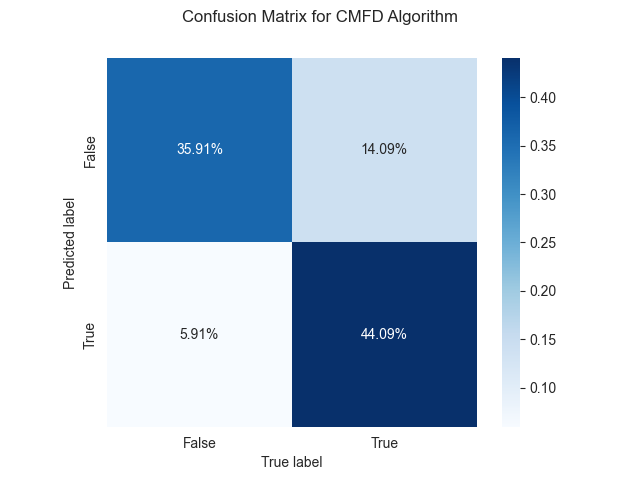
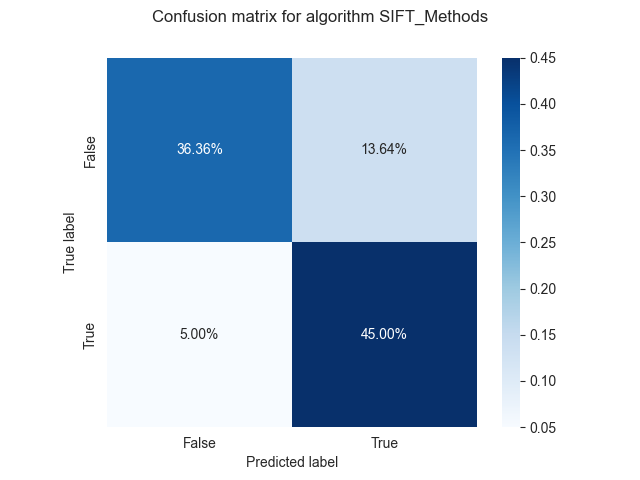
Updated parameters and evaluation report

diff --git a/AlgoTest.py b/AlgoTest.py
@@ -1,15 +1,18 @@
 import argparse
 import importlib
+import warnings
 
 import matplotlib.pyplot as plt
 import numpy as np
 import seaborn as sns
+from sklearn.metrics import classification_report
 from torch.utils.data import DataLoader
 from tqdm import tqdm
 
 from Dataset import MICC_F220
 
 sns.set_style("whitegrid")
+warnings.filterwarnings("ignore")
 
 
 def load_algorithm():
@@ -64,22 +67,28 @@ def plot_confusion_matrix(cm, labels_name, title):
         square=True
     )
     plt.suptitle(title)
-    plt.xlabel('True label')
-    plt.ylabel('Predicted label')
+    plt.ylabel('True label')
+    plt.xlabel('Predicted label')
     plt.show()
 
 
 def test_result(algorithm, dataloader):
-    result = np.zeros((2, 2))
+    cm = np.zeros((2, 2))
+    labels = []
+    preds = []
     for img, label in (pbar := tqdm(dataloader)):
         # print(img.shape)
         pred = algorithm.predict(img[0].numpy())
-        result[label, pred] += 1
-        acc, prec, recall, F1 = result_evaluation_basic(result)
-        pbar.set_description("Accuracy: {:.2f}% Precision:{:.2f}% Recall:{:.2f}% F Score: {:.2F}%".format(
+        labels.append(label[0].item())
+        preds.append(pred)
+        cm[label, pred] += 1
+        acc, prec, recall, F1 = result_evaluation_basic(cm)
+        pbar.set_description("Accuracy:{:.2f}% Precision:{:.2f}% Recall:{:.2f}% F1 Score:{:.2F}%".format(
             (acc*100), (prec*100), (recall*100), (F1*100)))
         pbar.refresh()
-    return result
+    print(classification_report(labels, preds,
+          target_names=['No Copy-Move', 'Copy-Move']))
+    return cm
 
 
 if __name__ == "__main__":
@@ -87,4 +96,4 @@ if __name__ == "__main__":
     dataloader = load_dataloader()
     cm = test_result(algorithm, dataloader)
     plot_confusion_matrix(cm, ['False', 'True'],
-                          'Confusion Matrix for CMFD Algorithm')
+                          'Confusion matrix for algorithm {}'.format(algorithm.__class__.__name__))

diff --git a/SIFT_Methods.py b/SIFT_Methods.py
@@ -88,8 +88,8 @@ class SIFT_Methods:
 
     def predict(self,
                 img,
-                k=4,
-                dis_threshold=93,
+                k=2,
+                dis_threshold=94,
                 spatial_dis_threshold=15,
                 match_method='BF'
                 ):
@@ -124,7 +124,7 @@ class SIFT_Methods:
 if __name__ == "__main__":
     from time import time
     df = utils.load_data_csv()
-    img = cv.imread(os.path.join(utils.__rootdir__, df['img'][25]))
+    img = cv.imread(os.path.join(utils.__rootdir__, df['img'][0]))
     sift = SIFT_Methods()
     # t0 = time()
     # pred = sift.predict(img)
@@ -137,10 +137,11 @@ if __name__ == "__main__":
     print(matchpt.shape)
     # pts = np.unique(np.vstack(matchpt), axis=0)
     # obtain condensed distance matrix (needed in linkage function)
-    # img = cv.drawKeypoints(
-    #     img, kp, img, flags=cv.DRAW_MATCHES_FLAGS_DRAW_RICH_KEYPOINTS)
+    img = cv.drawKeypoints(
+        img, kp, img, flags=cv.DRAW_MATCHES_FLAGS_DRAW_RICH_KEYPOINTS)
     for m in matchpt:
-        img = cv.line(img, m[0].astype(int), m[1].astype(int), (0, 255, 0), 1)
+        img = cv.line(img, m[0].astype(int),
+                      m[1].astype(int), (0, 255, 0), 2)
     cv.imshow('img', img)
     cv.waitKey(0)
     cv.destroyAllWindows()

diff --git a/README.md b/README.md
@@ -11,7 +11,6 @@ Copy-Move Forgery Detection (CMFD) is a technique to detect and localize copy-mo
 
 + [Haotian Hong](https://github.com/bughht)
 + [Zhenyu Jin](https://github.com/getOcr)
-+ Anyone who is contributing to this project
 
 ## Phylosophy
 
@@ -25,10 +24,12 @@ Copy-Move Forgery Detection (CMFD) is a technique to detect and localize copy-mo
 
 The baseline is a sift-based algorithm implemented in Python. With current parameters, the evaluation result of this algorithm on MICC-F220 is shown below.
 
-+ Accuracy: 80.00%
-+ Precision: 75.78%
-+ Recall: 88.18%
-+ F1-Score: 81.51%
+|              | precision | recall | f1-score | support |
+| -----------: | :-------- | :----- | :------- | :------ |
+| No Copy-Move | 0.88      | 0.73   | 0.80     | 110     |
+|    Copy-Move | 0.77      | 0.90   | 0.83     | 110     |
+
++ Accuracy: 81.36%
 + Confusion-Matrix: ![cm](img/confusion-matrix.png)
 
 ## Pre-requisites
